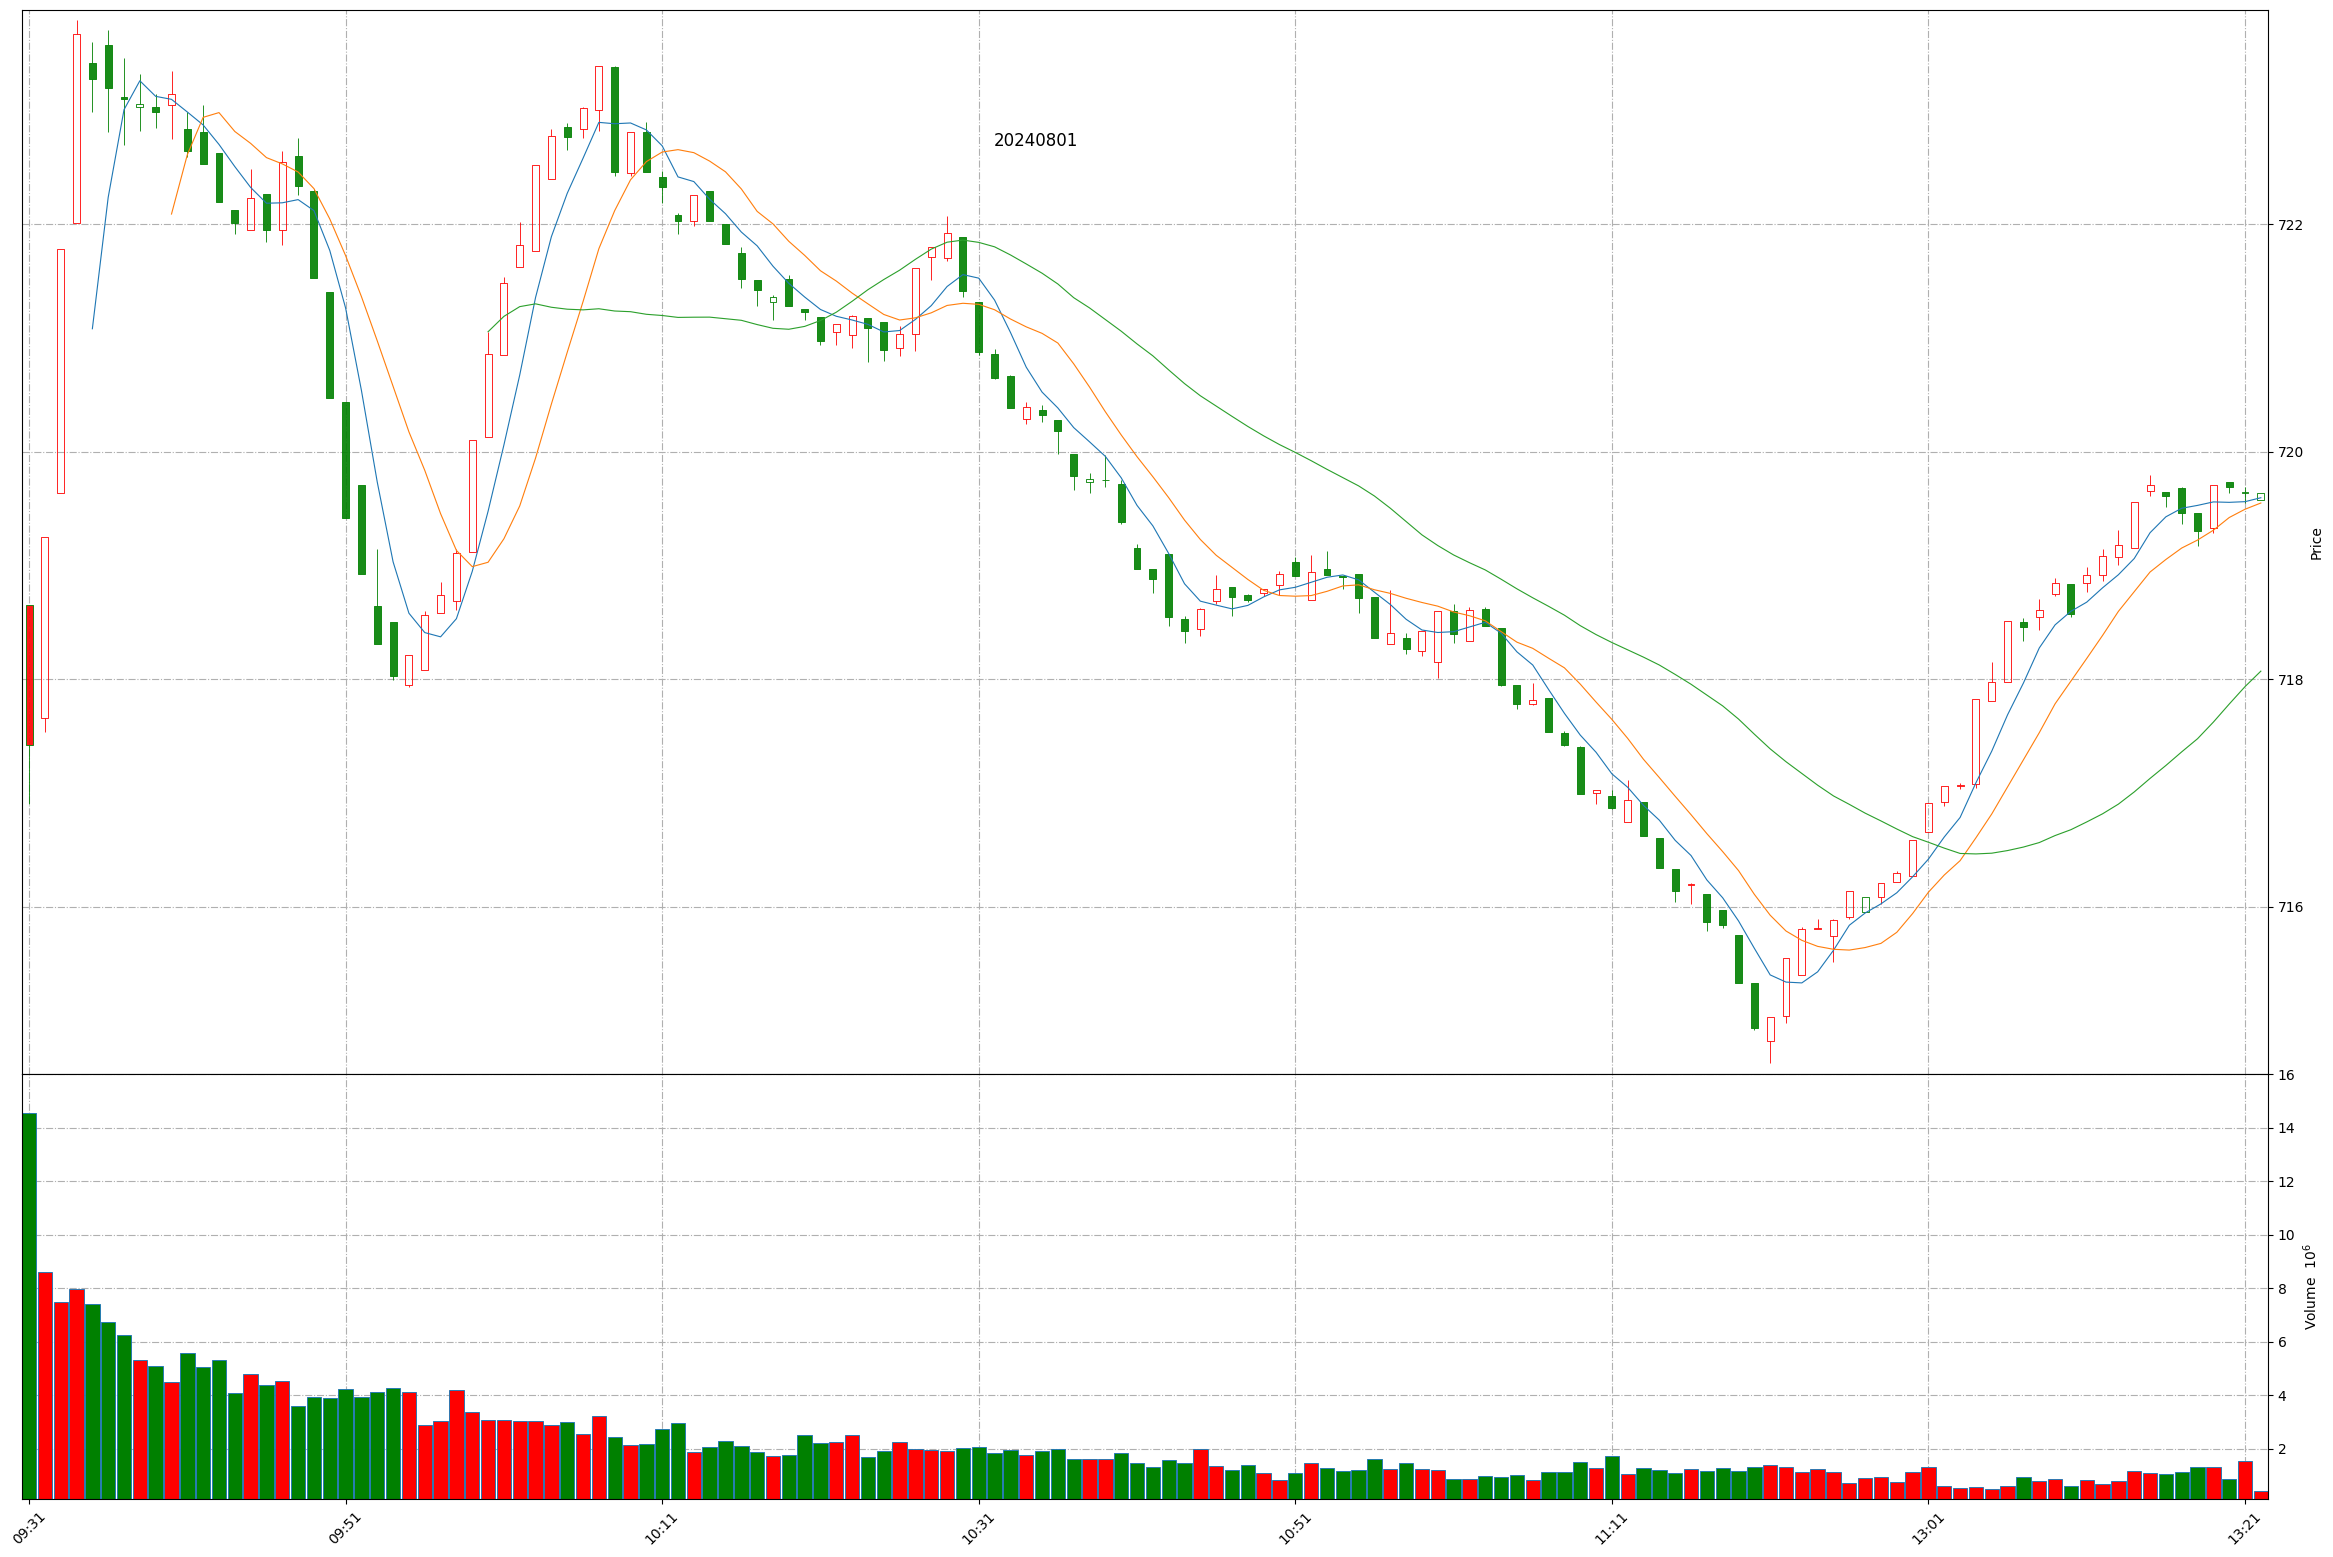
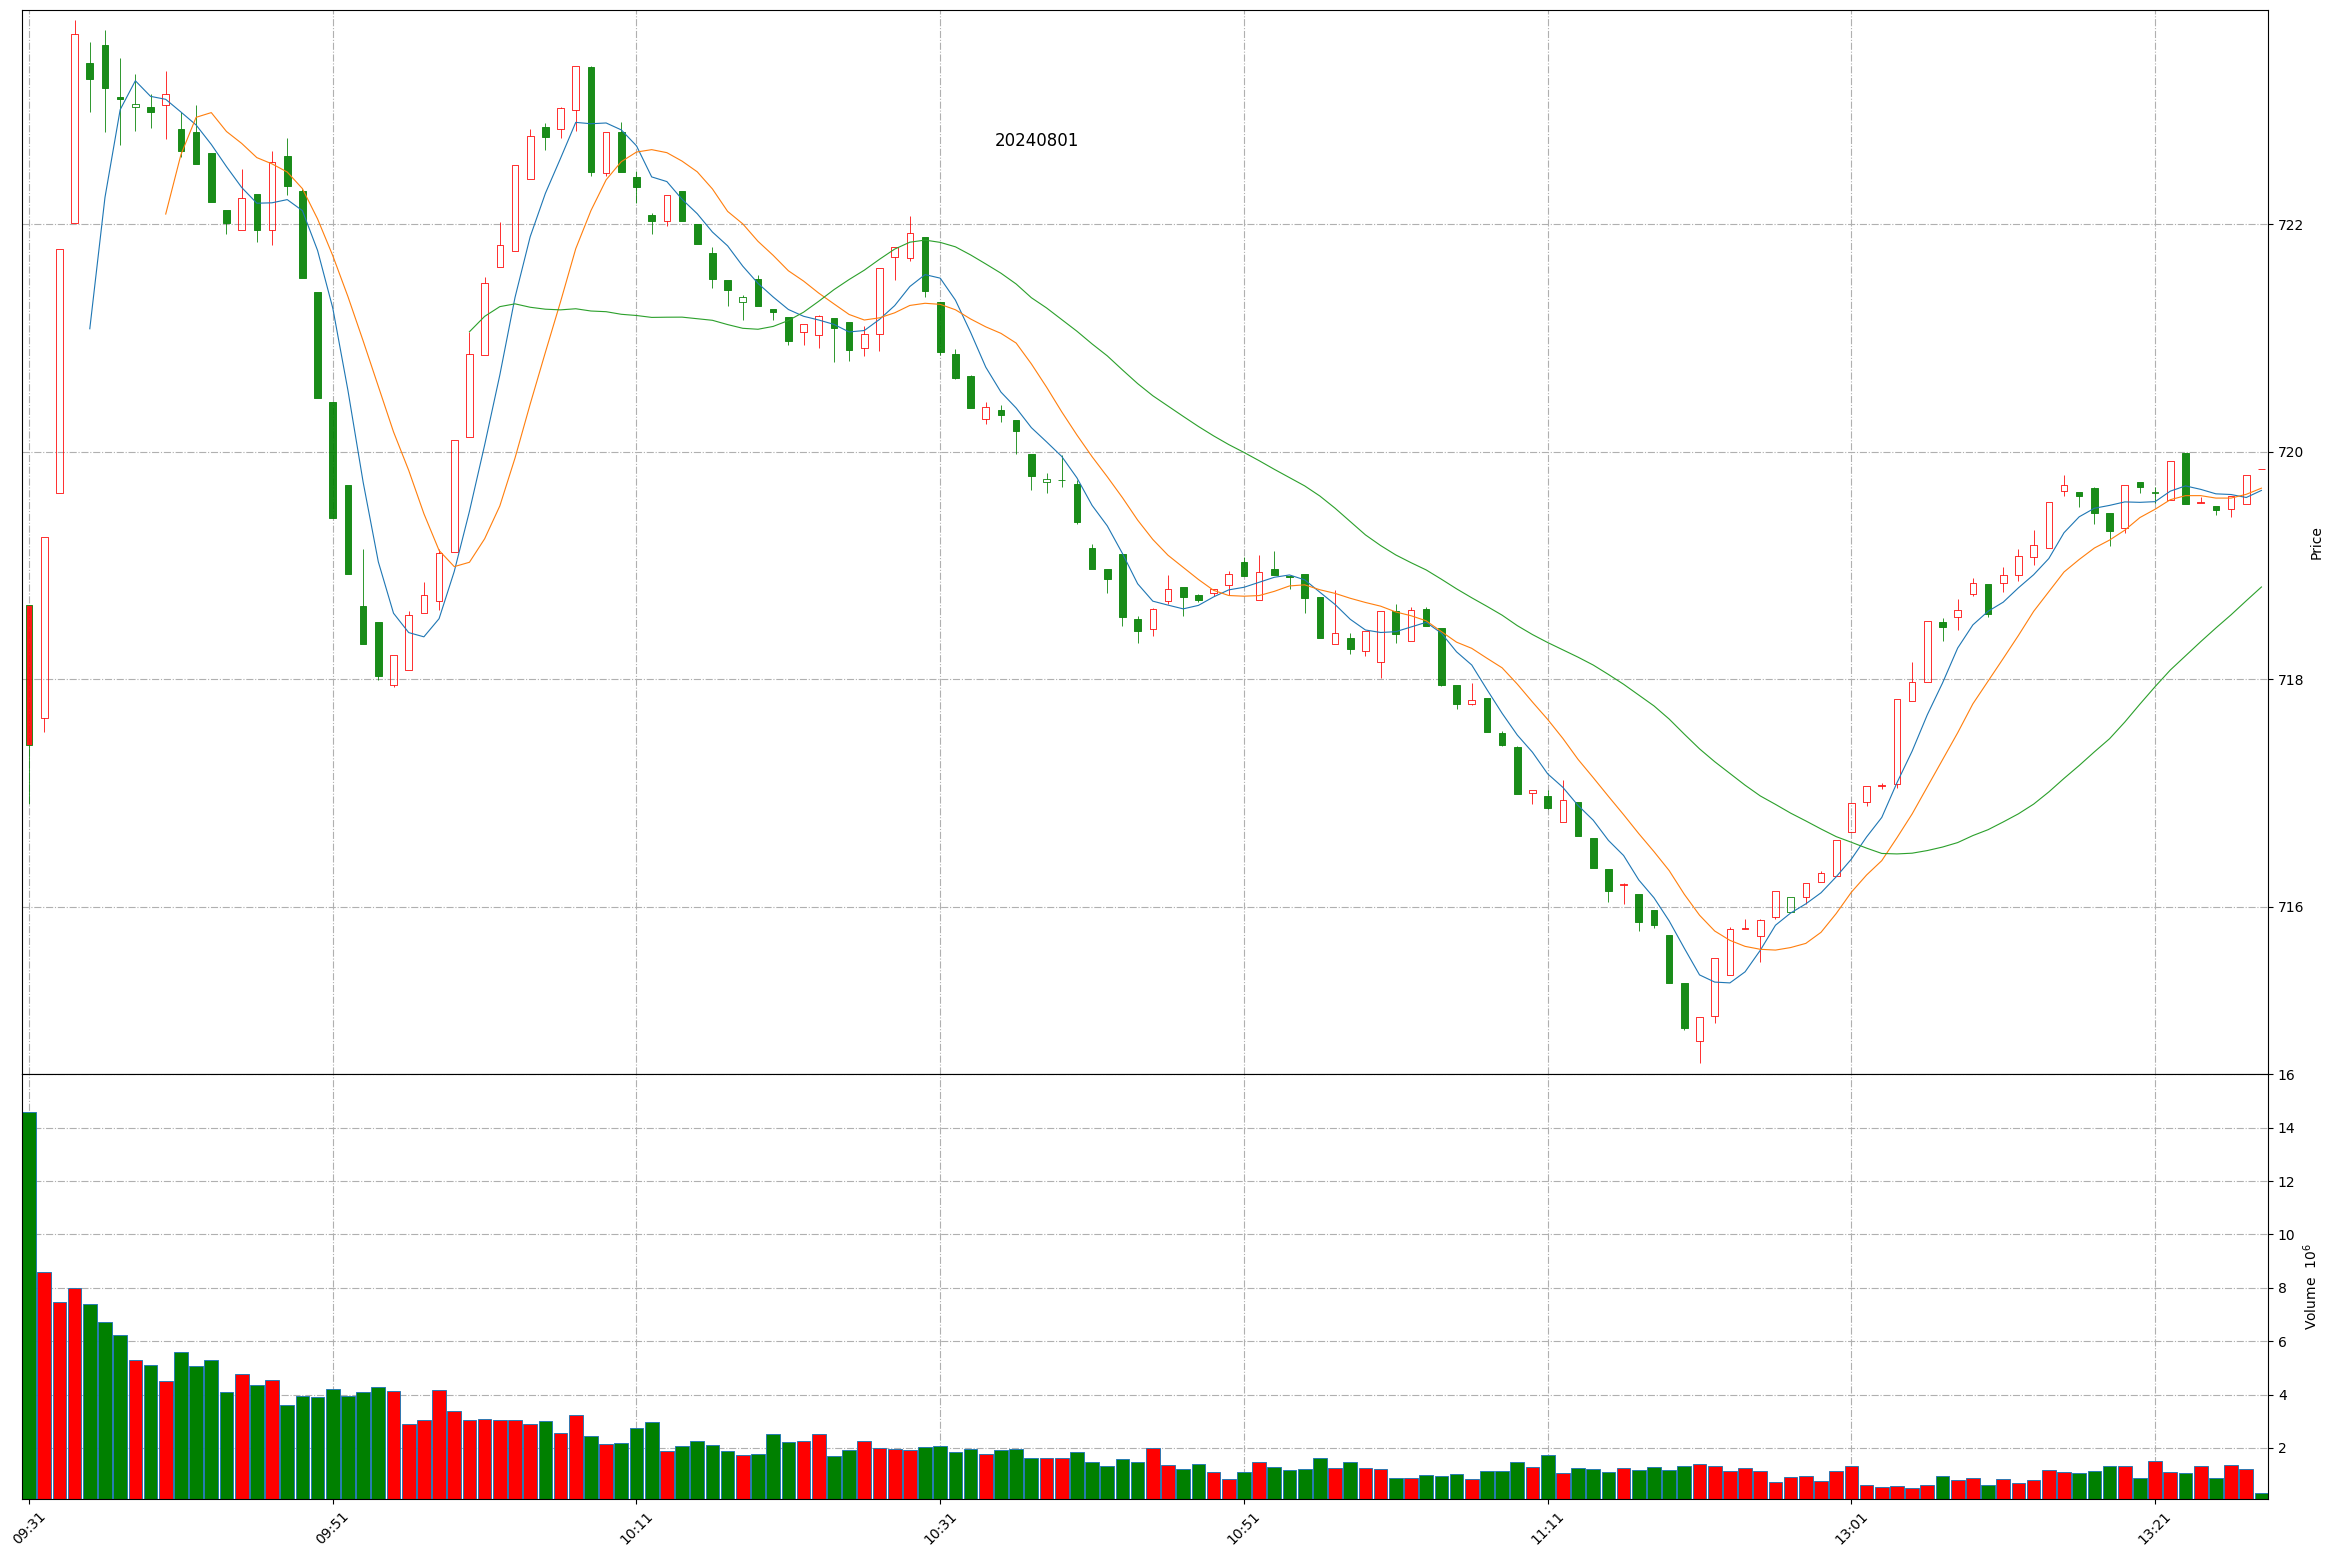
Github action update at 2024-08-01 13:27:13.

diff --git a/README.md b/README.md
@@ -1,11 +1,11 @@
 
 # Daily-A-share-market-quotes 每日 A 股指数（5min 更新）- 20240801
 
-### 上证指数 20240801 13:21
+### 上证指数 20240801 13:27
 ![](./fig/2024/8/20240801-sh000001.png)
 
-### 深证成指 20240801 13:21
+### 深证成指 20240801 13:27
 ![](./fig/2024/8/20240801-sz399001.png)
 
-### 北证50 20240801 13:21
+### 北证50 20240801 13:27
 ![](./fig/2024/8/20240801-bj899050.png)
